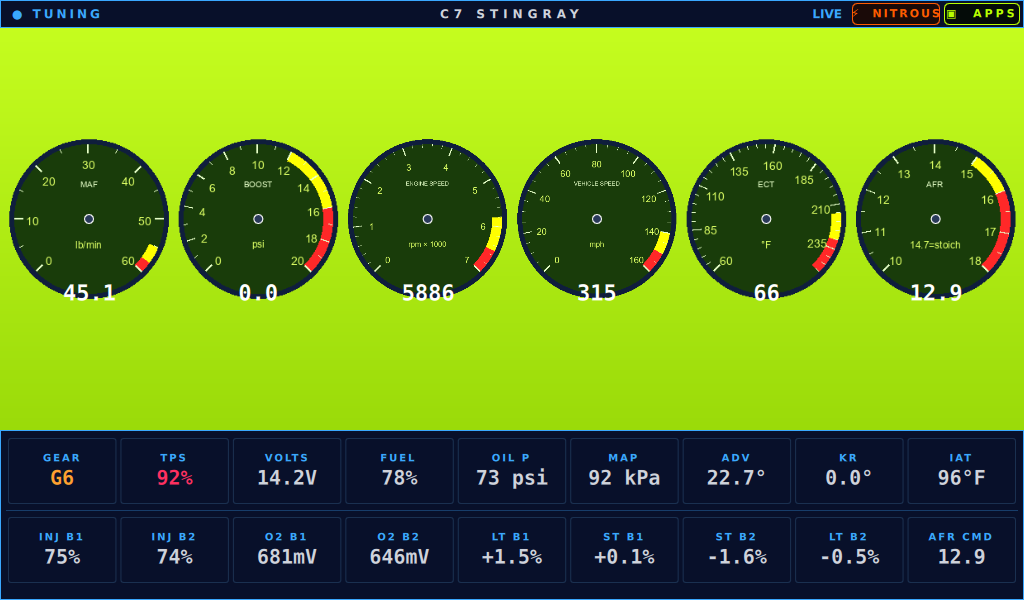
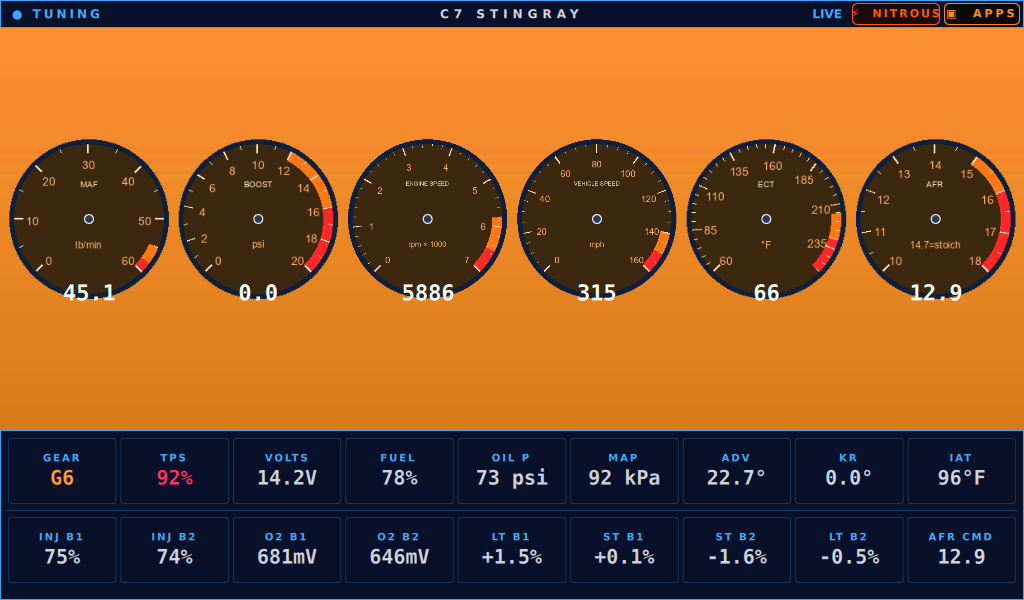
Re-theme C7 dash screenshots green -> honey-amber to match the site
Selective HSV hue remap (recolor_dash.py): only the green band rotates to
amber; reds/yellows/white text/navy bars preserved so gauges still read.
Cache-bust the image URLs (?v=2) so browsers fetch the amber versions.

diff --git a/c7-dashboard.html b/c7-dashboard.html
@@ -73,7 +73,7 @@
 <section class="section-tight">
   <div class="container">
     <figure class="shot shot-hero">
-      <img src="assets/images/c7-tuning-dash.png" alt="C7 Dashboard running live — six tuning gauges and 24 live data cells on the in-car touchscreen" loading="lazy">
+      <img src="assets/images/c7-tuning-dash.png?v=2" alt="C7 Dashboard running live — six tuning gauges and 24 live data cells on the in-car touchscreen" loading="lazy">
       <figcaption><strong>Running on the car.</strong> The tuning dashboard live on a 2014 Stingray — six analog gauges plus 24 live data cells, read straight off the OEM CAN bus.</figcaption>
     </figure>
   </div>
@@ -89,7 +89,7 @@
         <p>Big analog dials with proper redline arcs — MAF, boost, RPM, speed, ECT, AFR — plus 24 status cells for fuel trims, injector duty, knock retard, timing advance, and oil pressure. Swap layouts on the fly; multiple themes built in. <strong>Design your own cluster in the <a href="builder.html">Gauge Builder</a> and it ships pixel-identical to your dash.</strong></p>
         <ul class="checklist"><li>Analog dials + 24-cell tuning readout</li><li>Trim-aware: boost gauge appears on Z06/ZR1</li><li>Passive OEM CAN read — no reflash</li></ul>
       </div>
-      <div class="feature-media"><img src="assets/images/c7-tuning-dash.png" alt="C7 tuning gauges — MAF, boost, RPM, speed, ECT, AFR"></div>
+      <div class="feature-media"><img src="assets/images/c7-tuning-dash.png?v=2" alt="C7 tuning gauges — MAF, boost, RPM, speed, ECT, AFR"></div>
     </div>
 
     <div class="feature-row flip">
@@ -107,7 +107,7 @@
         <p>A software-managed RPM-window switch with <strong>seven independent interlocks</strong>: physical arm switch, software arm, gear ≠ P/N, RPM in window, TPS at WOT, coolant warmed, bottle temp safe. Programmable purge bursts and a bottle-heater thermostat with hard cutoff. Every relay is fail-safe default-OFF.</p>
         <ul class="checklist"><li>7-gate interlock stack</li><li>Programmable purge + bottle heater</li><li>Fail-safe default-OFF on every relay</li></ul>
       </div>
-      <div class="feature-media"><img src="assets/images/c7-nitrous-dash.png" alt="C7 nitrous control screen with seven independent safety interlocks"></div>
+      <div class="feature-media"><img src="assets/images/c7-nitrous-dash.png?v=2" alt="C7 nitrous control screen with seven independent safety interlocks"></div>
     </div>
   </div>
 </section>

diff --git a/index.html b/index.html
@@ -90,7 +90,7 @@
         </div>
       </div>
       <div class="hero-art">
-        <div class="hero-shot"><img src="assets/images/c7-tuning-dash.png" alt="The Honeybadger C7 dashboard running live — six tuning gauges and 24 live data cells"></div>
+        <div class="hero-shot"><img src="assets/images/c7-tuning-dash.png?v=2" alt="The Honeybadger C7 dashboard running live — six tuning gauges and 24 live data cells"></div>
       </div>
     </div>
   </div>
@@ -121,7 +121,7 @@
         <a href="j1-bridge.html" class="sc-link">Learn about J1 Bridge →</a>
       </div>
       <div class="showcase-card">
-        <div class="sc-media"><img src="assets/images/c7-tuning-dash.png" alt="C7 tuning dashboard with six live gauges"></div>
+        <div class="sc-media"><img src="assets/images/c7-tuning-dash.png?v=2" alt="C7 tuning dashboard with six live gauges"></div>
         <span class="sc-badge kit">COMMERCIAL KIT · PRE-LAUNCH</span>
         <h3>C7 Dashboard</h3>
         <p>The aftermarket touchscreen head unit GM never gave the C7 Corvette. Live tuning gauges, a 250-app multimedia center, and a safety-interlocked nitrous controller — reading the OEM CAN bus passively, no reflash.</p>